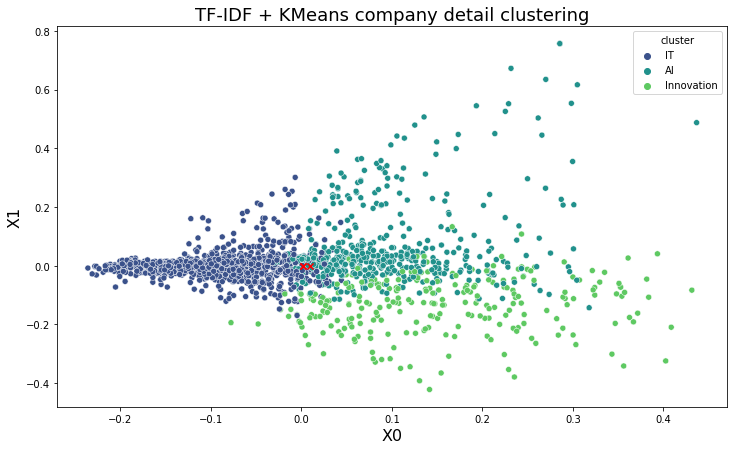
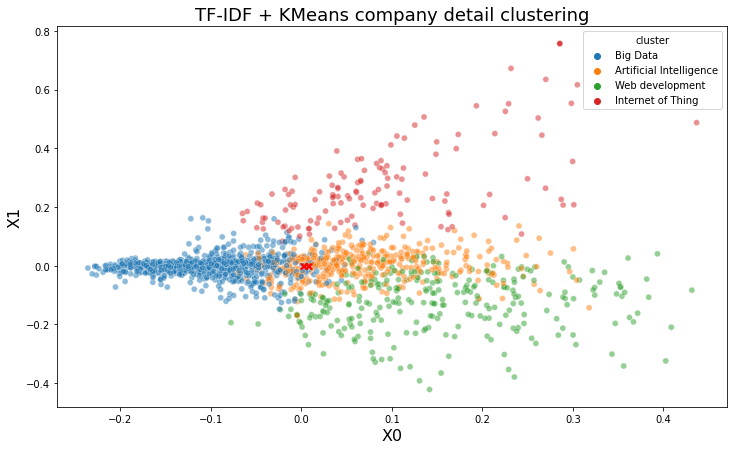
:memo: Update result sample display company category

diff --git a/README.md b/README.md
@@ -10,8 +10,24 @@
 
 ## ทดลองทำ Text clustering
 
-นำผลลัพธ์การทดลองที่หาค่า TF-IDFมาทำClusterจำนวน 3 กลุ่ม
+นำผลลัพธ์การทดลองที่หาค่า TF-IDF มาทำ Cluster จำนวน 4 กลุ่ม
+
 ![text_clustering](./screenshort/text_clustering.png)
+
+## ตัวอย่างแสดงประเภทธุรกิจของบริษัท
+
+> 🚨 Category ดังกล่าวเป็นเพียงตัวอย่างเท่านั้นยังไม่ได้ปรับปรุงให้ตรงกับข้อมูลมากที่สุด
+
+**Category**
+
+| ID  | Name                    |
+| --- | ----------------------- |
+| 0   | Big data                |
+| 1   | Web development         |
+| 2   | Artificial Intelligence |
+| 3   | Internet of Thing       |
+
+![company category](./screenshort/sample_company_category.png)
 
 ## License
 
